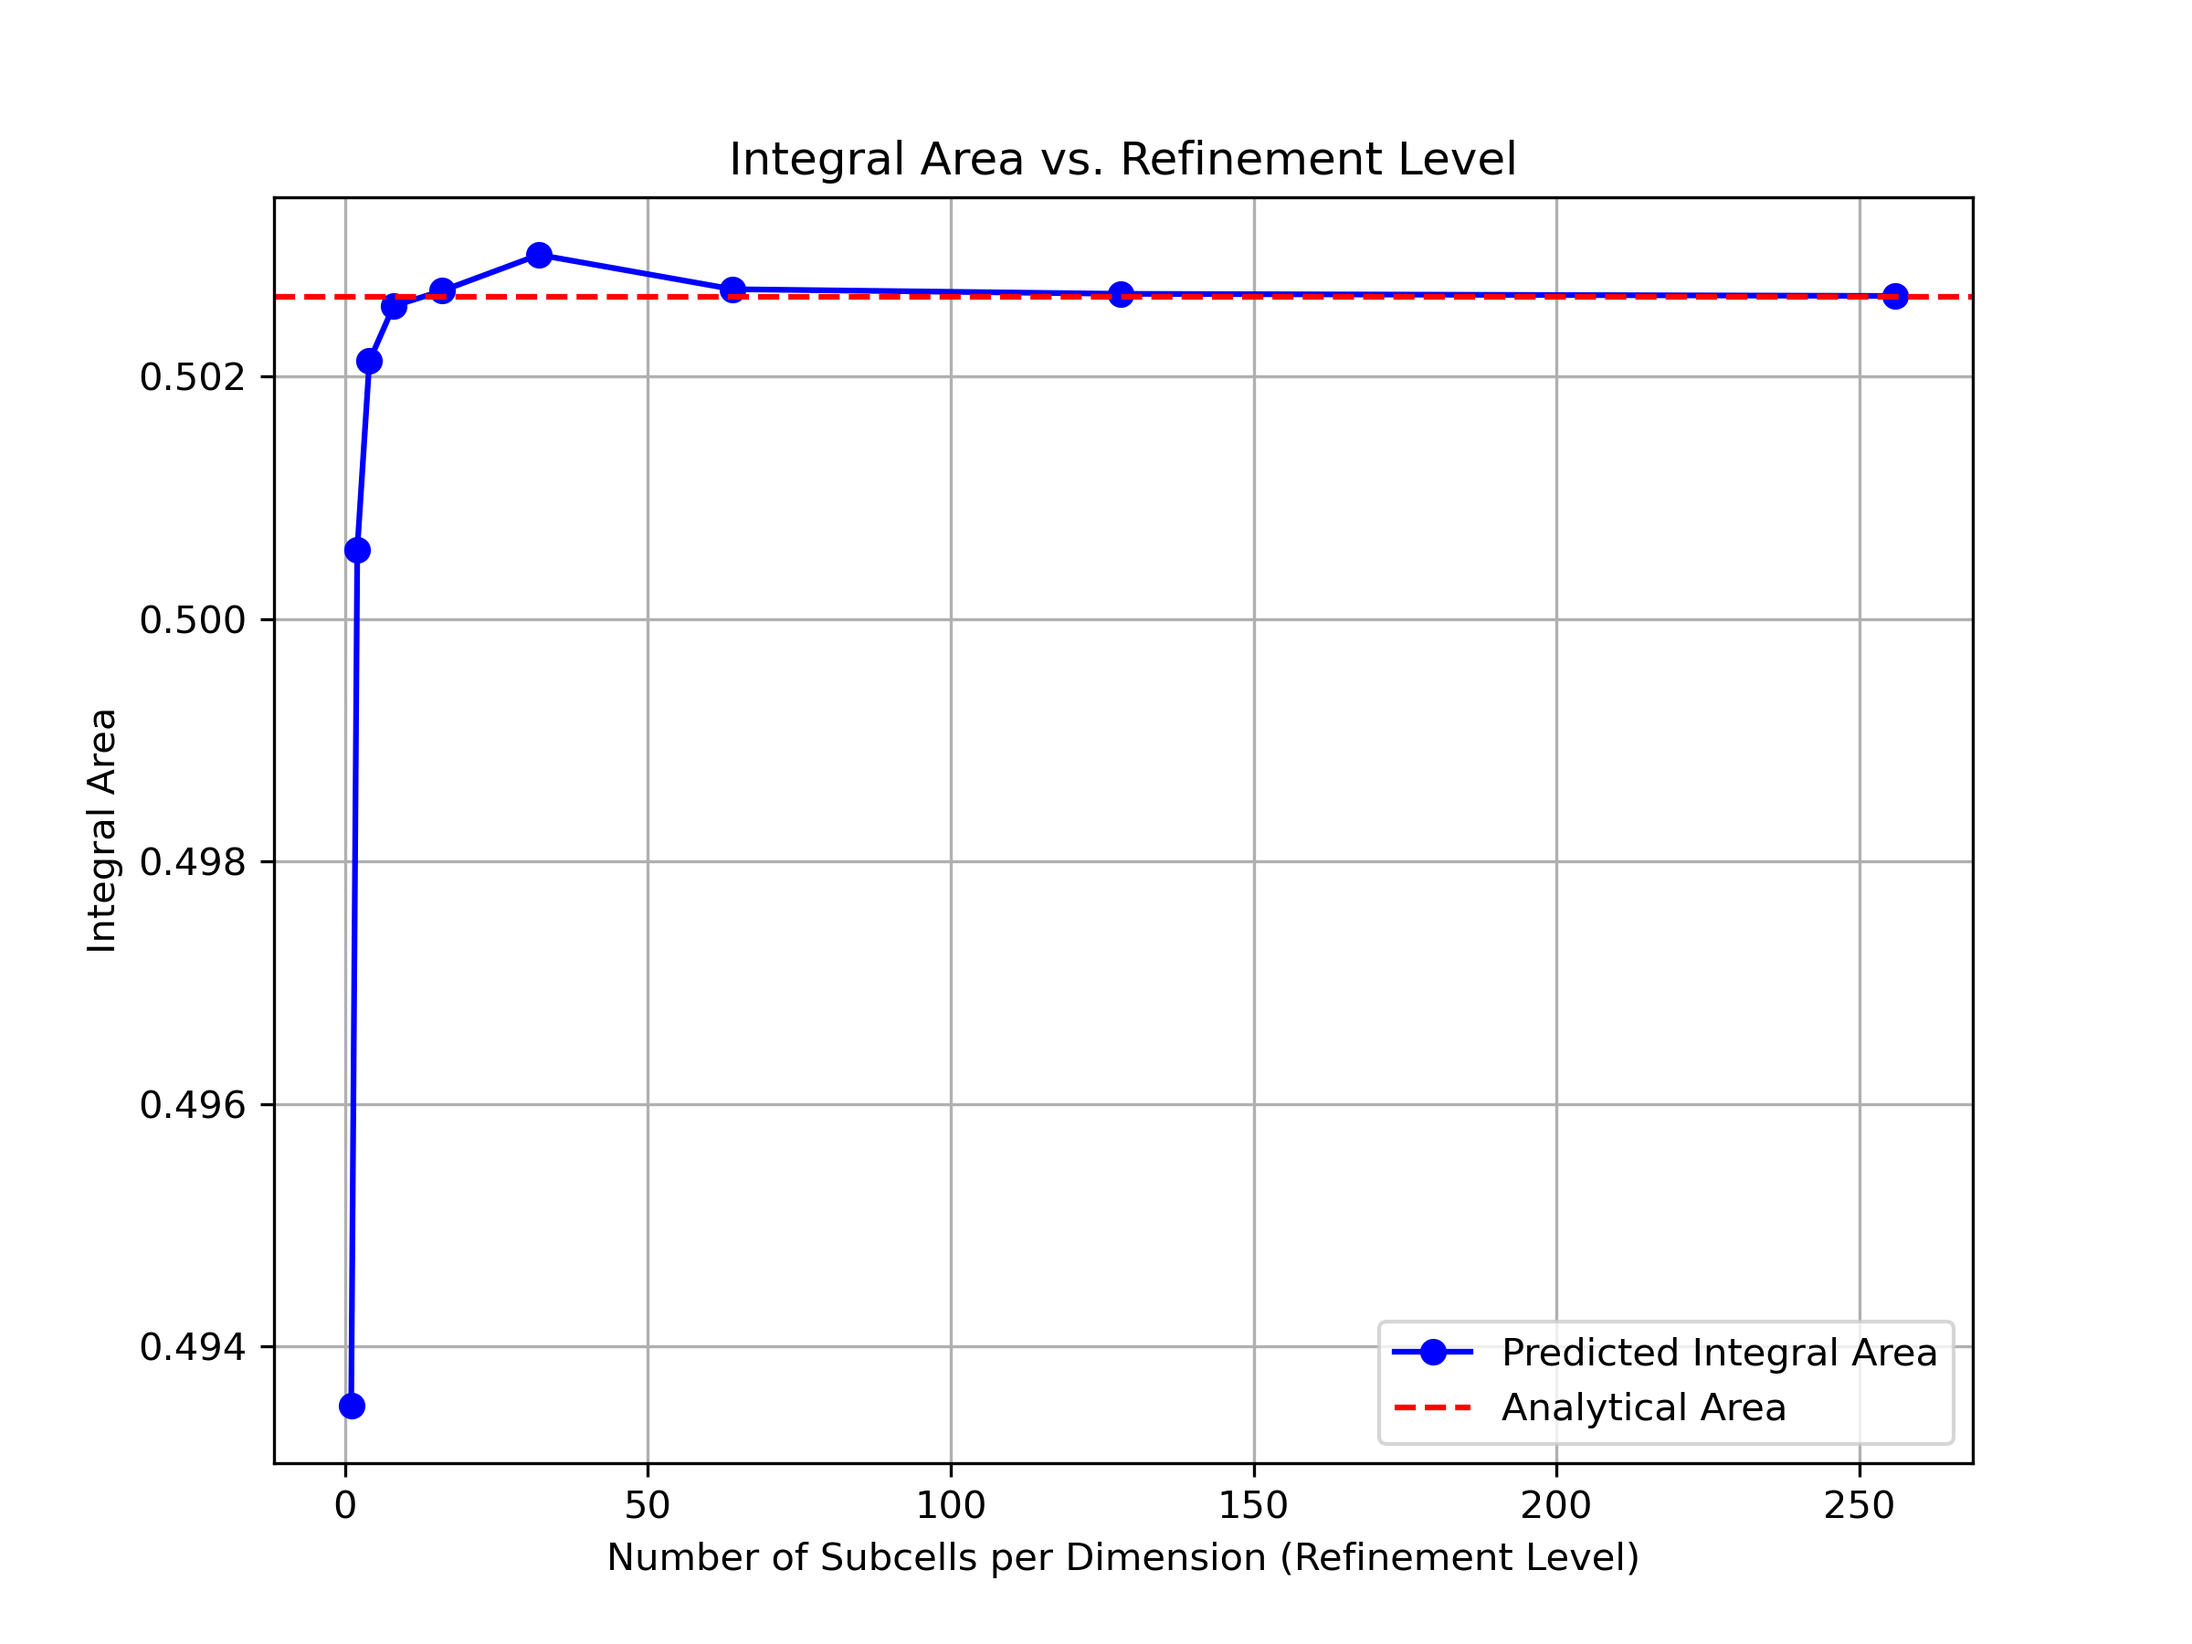
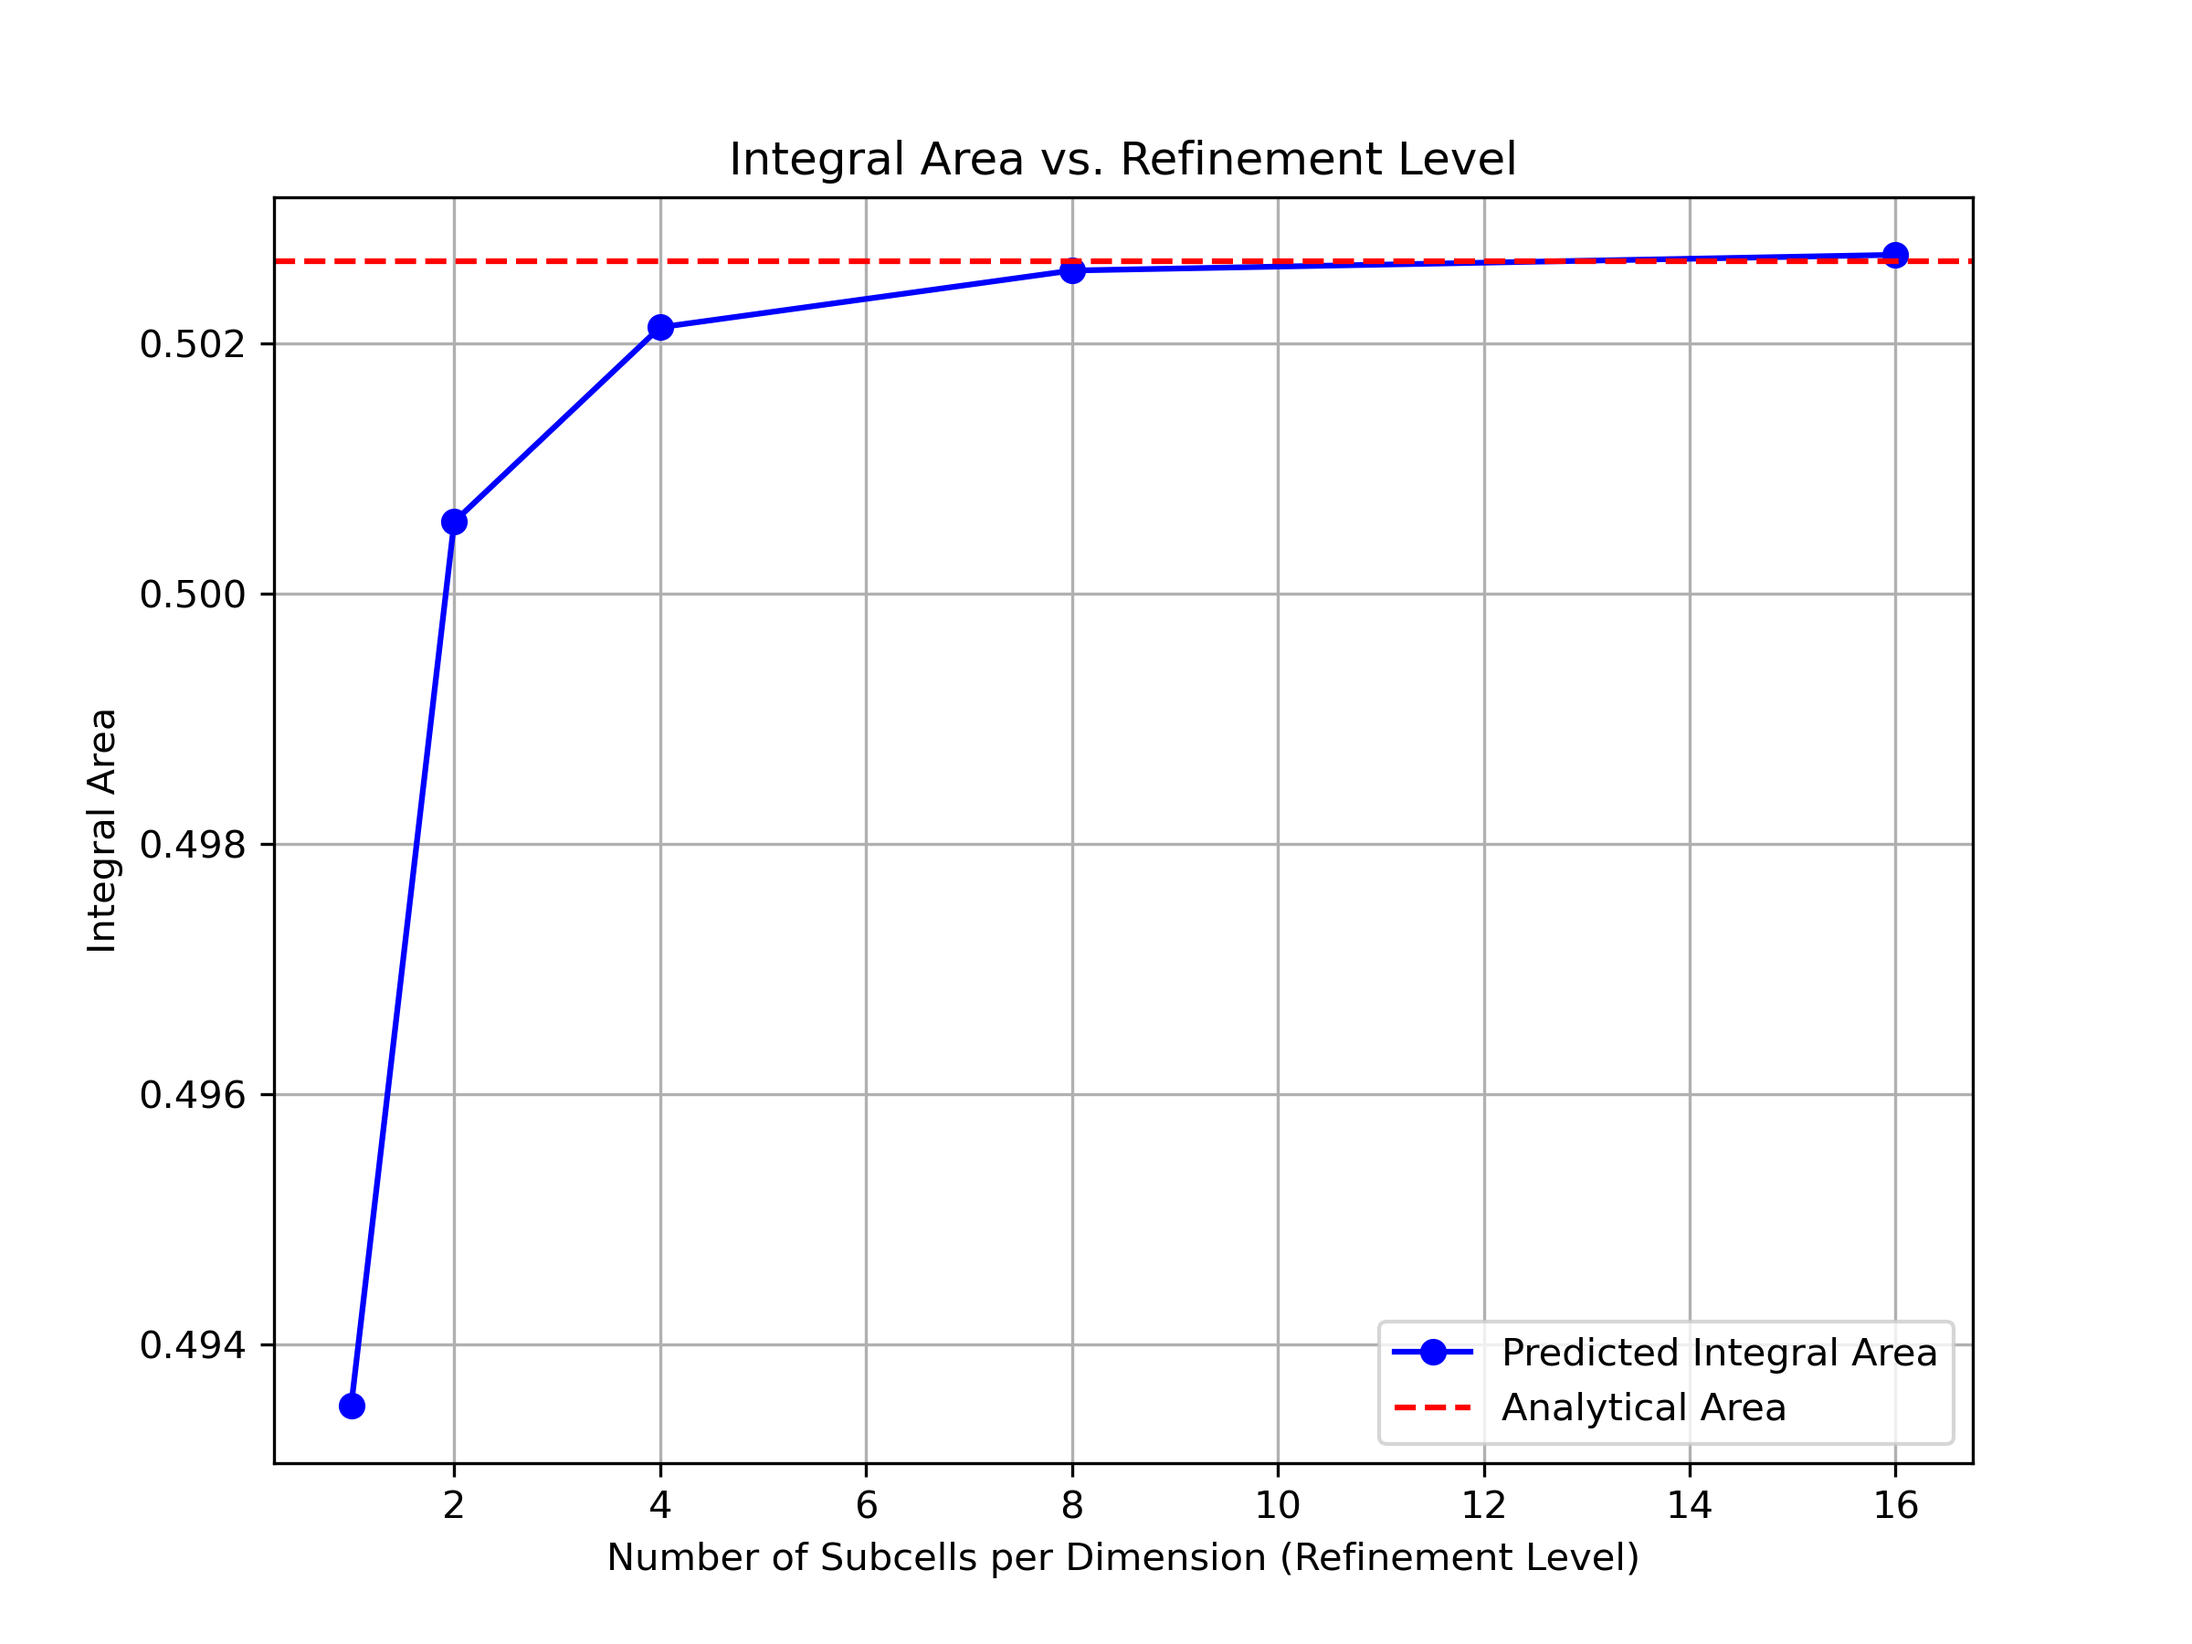
update

diff --git a/Scripts/CNN/CNN_V1/regression_combined.py b/Scripts/CNN/CNN_V1/regression_combined.py
@@ -1,0 +1,65 @@
+#!/usr/bin/env python
+
+import numpy as np
+import matplotlib.pyplot as plt
+from hrefinement_circle import compute_error_circle 
+from hrefinement_ellipse import compute_error_ellipse
+
+def linear_regression(element_sizes, error_list):
+    # Convert data to log–log space.
+    log_x = np.log(element_sizes)
+    log_y = np.log(error_list)
+    # Perform linear regression: log_y = slope * log_x + intercept.
+    slope, intercept = np.polyfit(log_x, log_y, 1)
+    # Compute regression line in the original space.
+    fit_y = np.exp(slope * log_x + intercept)
+    return slope, intercept, fit_y
+
+def main():
+    # Define output folder path.
+    output_folder = r"C:\Git\MasterThesis\Scripts\CNN\CNN_V1\plt\Combined"
+
+    # === Circle Data ===
+    error_list_circle, refinement_levels_circle = compute_error_circle()
+    error_list_circle = np.array(error_list_circle)
+    refinement_levels_circle = np.array(refinement_levels_circle)
+    # Compute element sizes: element size = 2 / n.
+    element_sizes_circle = 2.0 / refinement_levels_circle
+    slope_circle, intercept_circle, fit_y_circle = linear_regression(element_sizes_circle, error_list_circle)
+    print(f"Circle: Fitted slope = {slope_circle:.6f}, intercept = {intercept_circle:.6f}")
+
+    # === Ellipse Data ===
+    error_list_ellipse, refinement_levels_ellipse = compute_error_ellipse()
+    error_list_ellipse = np.array(error_list_ellipse)
+    refinement_levels_ellipse = np.array(refinement_levels_ellipse)
+    # Compute element sizes.
+    element_sizes_ellipse = 2.0 / refinement_levels_ellipse
+    slope_ellipse, intercept_ellipse, fit_y_ellipse = linear_regression(element_sizes_ellipse, error_list_ellipse)
+    print(f"Ellipse: Fitted slope = {slope_ellipse:.6f}, intercept = {intercept_ellipse:.6f}")
+
+    # === Plotting ===
+    plt.figure(figsize=(10, 8))
+    
+    # Plot circle data and regression fit.
+    plt.plot(element_sizes_circle, error_list_circle, 'o-', label=f'Circle Data (slope = {slope_circle:.6f})', color='blue')
+    plt.plot(element_sizes_circle, fit_y_circle, '--', label='Circle Regression Fit', color='blue')
+    
+    # Plot ellipse data and regression fit.
+    plt.plot(element_sizes_ellipse, error_list_ellipse, 's-', label=f'Ellipse Data (slope = {slope_ellipse:.6f})', color='green')
+    plt.plot(element_sizes_ellipse, fit_y_ellipse, '--', label='Ellipse Regression Fit', color='green')
+    
+    # Set log scale for both axes.
+    plt.xscale('log')
+    plt.yscale('log')
+    plt.xlabel("Element Size (log scale)")
+    plt.ylabel("Relative Error (log scale)")
+    plt.title("Log–Log Regression of Error vs. Element Size\nCircle and Ellipse")
+    plt.legend()
+    plt.grid(True, which='both', linestyle='--', alpha=0.7)
+
+    # Save and display the figure.
+    plt.savefig(f"{output_folder}/error_regression_circle_ellipse_loglog.png", dpi=300)
+    plt.show()
+
+if __name__ == "__main__":
+    main()

diff --git a/Scripts/CNN/CNN_V1/hrefinement_circle.py b/Scripts/CNN/CNN_V1/hrefinement_circle.py
@@ -225,7 +225,7 @@ def compute_error_circle():
         refinement_levels (list): List of refinement levels used.
     """
     analytical_area = math.pi * (0.4**2)  # Analytical area for a circle of radius 0.4
-    refinement_levels = [1, 2, 4, 8, 16, 32, 64, 128, 256]
+    refinement_levels = [1, 2, 4, 8, 16]
     error_list = []  # Relative error for each refinement level.
     area_list = []   # Predicted integral areas.
 

diff --git a/Scripts/CNN/CNN_V1/hrefinement_ellipse.py b/Scripts/CNN/CNN_V1/hrefinement_ellipse.py
@@ -272,7 +272,7 @@ def compute_error_ellipse():
         refinement_levels (list): List of refinement levels used.
     """
     analytical_area = math.pi * a * b  # Analytical area for the ellipse
-    refinement_levels = [1, 2, 4, 8, 16, 32, 64, 128, 256]
+    refinement_levels = [1, 2, 4, 8, 16, 32]
     error_list = []  # Relative error for each refinement level.
     area_list = []   # Predicted integral areas.
 
